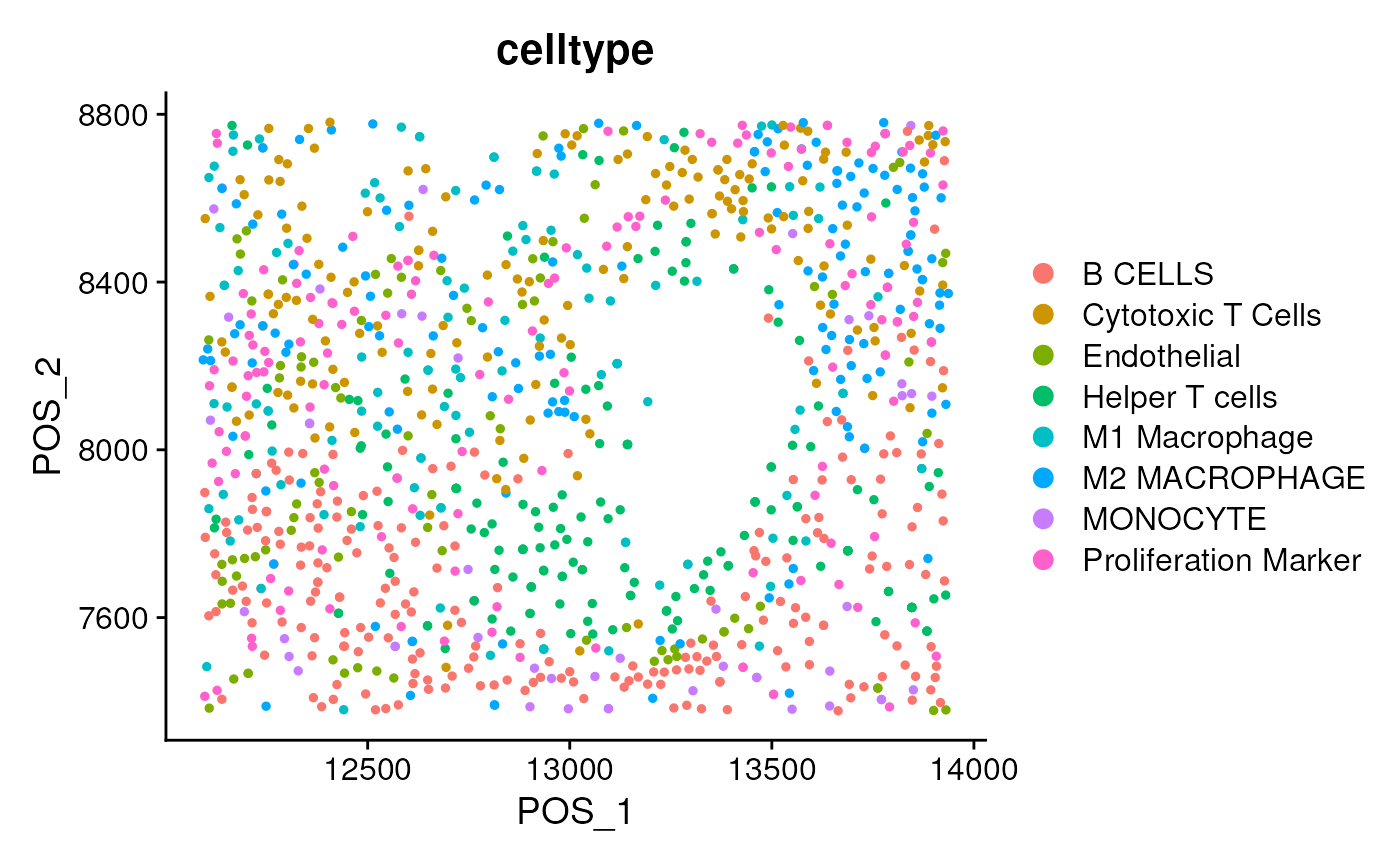
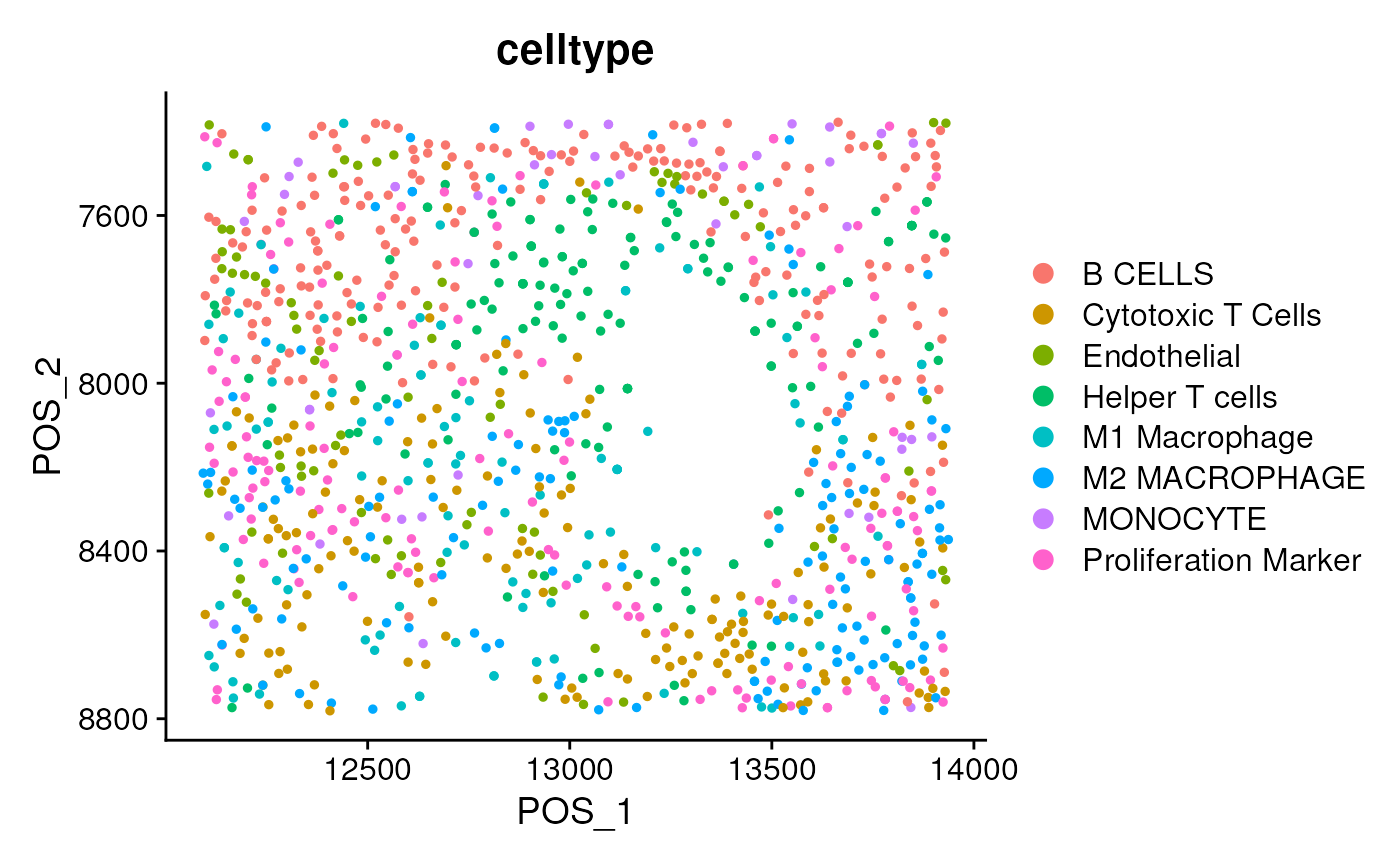
Deploying to gh-pages from @ jianhong/cdQuPath@5fc112d9df50f276977b32ded23ada3b964ce63e 🚀

diff --git a/articles/cdQuPath.html b/articles/cdQuPath.html
@@ -69,7 +69,7 @@
                         <h4 data-toc-skip class="author">Jianhong
 Ou</h4>
             
-            <h4 data-toc-skip class="date">23 July 2024</h4>
+            <h4 data-toc-skip class="date">24 July 2024</h4>
       
       <small class="dont-index">Source: <a href="https://github.com/jianhong/cdQuPath/blob/main/vignettes/cdQuPath.Rmd" class="external-link"><code>vignettes/cdQuPath.Rmd</code></a></small>
       <div class="hidden name"><code>cdQuPath.Rmd</code></div>
@@ -304,7 +304,7 @@ data of cells is contained within the reduction matrix labeled
 <span>  <span class="fu"><a href="https://satijalab.org/seurat/reference/FeaturePlot.html" class="external-link">FeaturePlot</a></span><span class="op">(</span><span class="va">seu</span>, slot<span class="op">=</span><span class="st">'count'</span>,</span>
 <span>            features <span class="op">=</span> <span class="fu"><a href="https://rdrr.io/r/base/colnames.html" class="external-link">rownames</a></span><span class="op">(</span><span class="va">seu</span><span class="op">)</span><span class="op">[</span><span class="fl">1</span><span class="op">]</span>,</span>
 <span>            reduction <span class="op">=</span> <span class="st">'pos'</span>,</span>
-<span>            ncol <span class="op">=</span> <span class="fl">2</span><span class="op">)</span></span>
+<span>            ncol <span class="op">=</span> <span class="fl">2</span><span class="op">)</span> <span class="op">+</span> <span class="fu"><a href="https://ggplot2.tidyverse.org/reference/scale_continuous.html" class="external-link">scale_y_reverse</a></span><span class="op">(</span><span class="op">)</span></span>
 <span><span class="op">)</span></span></code></pre></div>
 <p><img src="cdQuPath_files/figure-html/regionCheck-1.png" width="700"></p>
 <p>You may attempt to normalize the irregular sub-regions using LOESS
@@ -318,7 +318,7 @@ function.</p>
 <span><span class="fu"><a href="https://satijalab.org/seurat/reference/FeaturePlot.html" class="external-link">FeaturePlot</a></span><span class="op">(</span><span class="va">seu_norm</span>, slot<span class="op">=</span><span class="st">'count'</span>,</span>
 <span>            features <span class="op">=</span> <span class="fu"><a href="https://rdrr.io/r/base/colnames.html" class="external-link">rownames</a></span><span class="op">(</span><span class="va">seu</span><span class="op">)</span><span class="op">[</span><span class="fl">1</span><span class="op">]</span>,</span>
 <span>            reduction <span class="op">=</span> <span class="st">'pos'</span>,</span>
-<span>            ncol <span class="op">=</span> <span class="fl">2</span><span class="op">)</span></span></code></pre></div>
+<span>            ncol <span class="op">=</span> <span class="fl">2</span><span class="op">)</span> <span class="op">+</span> <span class="fu"><a href="https://ggplot2.tidyverse.org/reference/scale_continuous.html" class="external-link">scale_y_reverse</a></span><span class="op">(</span><span class="op">)</span></span></code></pre></div>
 <p>The next step involves cell-wise normalization. The available
 normalization methods are ‘LogNormalize’, ‘CLR’ (centered log ratio),
 ‘RC’ (CPM), and ‘zscore’, which can be applied using the
@@ -481,7 +481,7 @@ assignment.</p>
 <span><span class="fu"><a href="https://satijalab.org/seurat/reference/DimPlot.html" class="external-link">DimPlot</a></span><span class="op">(</span><span class="va">seu</span>, group.by <span class="op">=</span> <span class="st">'celltype'</span><span class="op">)</span></span></code></pre></div>
 <p><img src="cdQuPath_files/figure-html/celltype-1.png" width="700"></p>
 <div class="sourceCode" id="cb46"><pre class="downlit sourceCode r">
-<code class="sourceCode R"><span><span class="fu"><a href="https://satijalab.org/seurat/reference/DimPlot.html" class="external-link">DimPlot</a></span><span class="op">(</span><span class="va">seu</span>, group.by <span class="op">=</span> <span class="st">'celltype'</span>, reduction <span class="op">=</span> <span class="st">'pos'</span><span class="op">)</span></span></code></pre></div>
+<code class="sourceCode R"><span><span class="fu"><a href="https://satijalab.org/seurat/reference/DimPlot.html" class="external-link">DimPlot</a></span><span class="op">(</span><span class="va">seu</span>, group.by <span class="op">=</span> <span class="st">'celltype'</span>, reduction <span class="op">=</span> <span class="st">'pos'</span><span class="op">)</span> <span class="op">+</span> <span class="fu"><a href="https://ggplot2.tidyverse.org/reference/scale_continuous.html" class="external-link">scale_y_reverse</a></span><span class="op">(</span><span class="op">)</span></span></code></pre></div>
 <p><img src="cdQuPath_files/figure-html/celltype-2.png" width="700"></p>
 <div class="sourceCode" id="cb47"><pre class="downlit sourceCode r">
 <code class="sourceCode R"><span><span class="fu"><a href="https://rdrr.io/pkg/dittoSeq/man/dittoBarPlot.html" class="external-link">dittoBarPlot</a></span><span class="op">(</span><span class="va">seu</span>,</span>
@@ -490,7 +490,7 @@ assignment.</p>
 <p><img src="cdQuPath_files/figure-html/celltype-3.png" width="700"></p>
 <div class="sourceCode" id="cb48"><pre class="downlit sourceCode r">
 <code class="sourceCode R"><span><span class="co">## check the first annotation of each cell, not restricted by seurat_cluster</span></span>
-<span><span class="fu"><a href="https://satijalab.org/seurat/reference/DimPlot.html" class="external-link">DimPlot</a></span><span class="op">(</span><span class="va">seu</span>, group.by <span class="op">=</span> <span class="st">'celltype_first'</span>, reduction <span class="op">=</span> <span class="st">'pos'</span><span class="op">)</span></span></code></pre></div>
+<span><span class="fu"><a href="https://satijalab.org/seurat/reference/DimPlot.html" class="external-link">DimPlot</a></span><span class="op">(</span><span class="va">seu</span>, group.by <span class="op">=</span> <span class="st">'celltype_first'</span>, reduction <span class="op">=</span> <span class="st">'pos'</span><span class="op">)</span> <span class="op">+</span> <span class="fu"><a href="https://ggplot2.tidyverse.org/reference/scale_continuous.html" class="external-link">scale_y_reverse</a></span><span class="op">(</span><span class="op">)</span></span></code></pre></div>
 <p><img src="cdQuPath_files/figure-html/celltype-4.png" width="700"></p>
 <div class="sourceCode" id="cb49"><pre class="downlit sourceCode r">
 <code class="sourceCode R"><span><span class="fu"><a href="https://rdrr.io/pkg/dittoSeq/man/dittoBarPlot.html" class="external-link">dittoBarPlot</a></span><span class="op">(</span><span class="va">seu</span>,</span>
@@ -585,10 +585,10 @@ create a merged dataset.</p>
 <code class="sourceCode R"><span><span class="fu"><a href="https://satijalab.org/seurat/reference/FeaturePlot.html" class="external-link">FeaturePlot</a></span><span class="op">(</span><span class="va">mergedSeu</span>, slot<span class="op">=</span><span class="st">'count'</span>,</span>
 <span>            features <span class="op">=</span> <span class="fu"><a href="https://rdrr.io/r/base/colnames.html" class="external-link">rownames</a></span><span class="op">(</span><span class="va">mergedSeu</span><span class="op">)</span><span class="op">[</span><span class="fl">1</span><span class="op">]</span>,</span>
 <span>            reduction <span class="op">=</span> <span class="st">'pos'</span>,</span>
-<span>            ncol <span class="op">=</span> <span class="fl">2</span><span class="op">)</span></span></code></pre></div>
+<span>            ncol <span class="op">=</span> <span class="fl">2</span><span class="op">)</span> <span class="op">+</span> <span class="fu"><a href="https://ggplot2.tidyverse.org/reference/scale_continuous.html" class="external-link">scale_y_reverse</a></span><span class="op">(</span><span class="op">)</span></span></code></pre></div>
 <p><img src="cdQuPath_files/figure-html/runSample2-2.png" width="700"></p>
 <div class="sourceCode" id="cb63"><pre class="downlit sourceCode r">
-<code class="sourceCode R"><span><span class="fu"><a href="https://satijalab.org/seurat/reference/DimPlot.html" class="external-link">DimPlot</a></span><span class="op">(</span><span class="va">mergedSeu</span>, group.by <span class="op">=</span> <span class="st">'celltype'</span>, reduction <span class="op">=</span> <span class="st">'pos'</span><span class="op">)</span></span></code></pre></div>
+<code class="sourceCode R"><span><span class="fu"><a href="https://satijalab.org/seurat/reference/DimPlot.html" class="external-link">DimPlot</a></span><span class="op">(</span><span class="va">mergedSeu</span>, group.by <span class="op">=</span> <span class="st">'celltype'</span>, reduction <span class="op">=</span> <span class="st">'pos'</span><span class="op">)</span> <span class="op">+</span> <span class="fu"><a href="https://ggplot2.tidyverse.org/reference/scale_continuous.html" class="external-link">scale_y_reverse</a></span><span class="op">(</span><span class="op">)</span></span></code></pre></div>
 <p><img src="cdQuPath_files/figure-html/runSample2-3.png" width="700"></p>
 <div class="sourceCode" id="cb64"><pre class="downlit sourceCode r">
 <code class="sourceCode R"><span><span class="co">## use GMM rescaled data to plot the correlation</span></span>
@@ -715,7 +715,7 @@ Biobase_2.65.0<br>
 [19] BiocStyle_2.33.1</p>
 <p>loaded via a namespace (and not attached): [1] RcppAnnoy_0.0.22
 splines_4.4.1 later_1.3.2<br>
-[4] tibble_3.2.1 polyclip_1.10-6 fastDummies_1.7.3<br>
+[4] tibble_3.2.1 polyclip_1.10-7 fastDummies_1.7.3<br>
 [7] lifecycle_1.0.4 doParallel_1.0.17 globals_0.16.3<br>
 [10] lattice_0.22-6 MASS_7.3-61 magrittr_2.0.3<br>
 [13] plotly_4.10.4 sass_0.4.9 rmarkdown_2.27<br>
